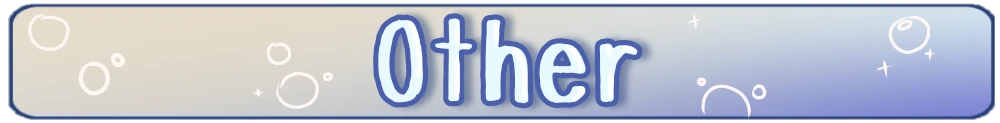
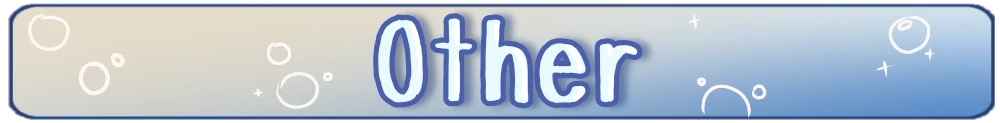
new status and updated website colors

Changed region(s): [[0.496, 0.5122, 0.992, 0.9512], [0.868, 0.5122, 0.899, 0.5366]]

diff --git a/src/styles/global.css b/src/styles/global.css
@@ -1,7 +1,3 @@
-/* ============================================
-   gemmie's corner — designs
-   ============================================ */
-
 @import url('https://fonts.googleapis.com/css2?family=Baloo+2:wght@600;700&family=Pacifico&display=swap');
 
 :root {
@@ -9,26 +5,26 @@
   --glass-fill: rgba(255, 250, 245, 0.6);
   --glass-fill-strong: rgba(255, 250, 245, 0.84);
   --glass-border: rgba(255, 255, 255, 0.85);
-  --titlebar-start: #dee3fb;
-  --titlebar-mid: #93a3e6;
-  --titlebar-end: #4b3a7a;
-  --titlebar-border: #332a56;
-  --titlebar-inactive-start: #ebe5f4;
-  --titlebar-inactive-mid: #cfc2e2;
-  --titlebar-inactive-end: #a996c4;
-  --titlebar-inactive-border: #8d7ba3;
-  --titlebar-inactive-text: #4a3f66;
+  --titlebar-start: #d7e6f5;
+  --titlebar-mid: #4a85c9;
+  --titlebar-end: #1a3f66;
+  --titlebar-border: #11263f;
+  --titlebar-inactive-start: #e4ebf2;
+  --titlebar-inactive-mid: #b7c9da;
+  --titlebar-inactive-end: #7891ab;
+  --titlebar-inactive-border: #5a7290;
+  --titlebar-inactive-text: #2a3f55;
   --tb-btn-start: #fdfefe;
-  --tb-btn-end: #d6cdea;
+  --tb-btn-end: #cfe6e9;
 
   /* text */
-  --ink: #2b2140;
-  --ink-soft: #5c4f7a;
+  --ink: #142c3f;
+  --ink-soft: #3c5a70;
   --ink-inverse: #fbf3ea;
 
   /* accents */
-  --accent: #6a7fd9;
-  --accent-deep: #4b3a7a;
+  --accent: #3a7ab8;
+  --accent-deep: #1a3f66;
   --accent-teal: #3fbfc7;
   --accent-orange: #e8823a;
   --accent-red: #e3543f;
@@ -37,10 +33,10 @@
   --surface-faint: rgba(255, 255, 255, 0.38);
   --surface: rgba(255, 255, 255, 0.55);
   --surface-hover: rgba(255, 255, 255, 0.9);
-  --card-border: rgba(75, 58, 122, 0.32);
-  --card-border-dashed: rgba(75, 58, 122, 0.4);
-  --card-stripe: rgba(75, 58, 122, 0.15);
-  --card-stripe-bg: rgba(75, 58, 122, 0.06);
+  --card-border: rgba(26, 63, 102, 0.32);
+  --card-border-dashed: rgba(26, 63, 102, 0.4);
+  --card-stripe: rgba(26, 63, 102, 0.15);
+  --card-stripe-bg: rgba(26, 63, 102, 0.06);
 
   /* type */
   --font-ui: 'Segoe UI', Tahoma, Geneva, Verdana, sans-serif;
@@ -56,37 +52,37 @@
 
 /* ---------- dark theme token overrides ---------- */
 :root[data-theme="dark"] {
-  --glass-fill: rgba(20, 15, 34, 0.55);
-  --glass-fill-strong: rgba(20, 15, 34, 0.78);
+  --glass-fill: rgba(14, 17, 46, 0.55);
+  --glass-fill-strong: rgba(14, 17, 46, 0.78);
   --glass-border: rgba(255, 255, 255, 0.14);
-  --titlebar-start: #6a5aa8;
-  --titlebar-mid: #392f5c;
-  --titlebar-end: #15111f;
-  --titlebar-border: #08060f;
-  --titlebar-inactive-start: #33294a;
-  --titlebar-inactive-mid: #241c38;
-  --titlebar-inactive-end: #171226;
-  --titlebar-inactive-border: #0d0a16;
-  --titlebar-inactive-text: #cabfe0;
-  --tb-btn-start: #4a4260;
-  --tb-btn-end: #2a2440;
+  --titlebar-start: #2a5f99;
+  --titlebar-mid: #16304f;
+  --titlebar-end: #0d1030;
+  --titlebar-border: #070816;
+  --titlebar-inactive-start: #1a2f44;
+  --titlebar-inactive-mid: #15222f;
+  --titlebar-inactive-end: #10122c;
+  --titlebar-inactive-border: #0a0b1d;
+  --titlebar-inactive-text: #a3bdd6;
+  --tb-btn-start: #27405a;
+  --tb-btn-end: #171538;
 
-  --ink: #f3ecff;
-  --ink-soft: #cabfe0;
+  --ink: #e9f1fb;
+  --ink-soft: #9ab6d6;
   --ink-inverse: #fbf3ea;
 
-  --accent: #93a3e6;
-  --accent-deep: #b9c3f0;
+  --accent: #4f9fd9;
+  --accent-deep: #7fb8ef;
   --accent-teal: #5fe0e6;
   --accent-orange: #ffab5c;
 
-  --surface-faint: rgba(20, 15, 34, 0.35);
-  --surface: rgba(30, 22, 48, 0.55);
-  --surface-hover: rgba(70, 56, 100, 0.75);
-  --card-border: rgba(185, 195, 240, 0.28);
-  --card-border-dashed: rgba(185, 195, 240, 0.35);
-  --card-stripe: rgba(185, 195, 240, 0.18);
-  --card-stripe-bg: rgba(185, 195, 240, 0.08);
+  --surface-faint: rgba(14, 17, 46, 0.35);
+  --surface: rgba(18, 21, 54, 0.55);
+  --surface-hover: rgba(36, 42, 98, 0.75);
+  --card-border: rgba(127, 184, 239, 0.28);
+  --card-border-dashed: rgba(127, 184, 239, 0.35);
+  --card-stripe: rgba(127, 184, 239, 0.18);
+  --card-stripe-bg: rgba(127, 184, 239, 0.08);
 }
 
 * {
@@ -102,7 +98,7 @@ body {
   font-family: var(--font-ui);
   color: var(--ink);
   min-height: 100vh;
-  background-color: #dfe3fb;
+  background-color: #dce8f2;
   font-size: 15px;
   line-height: 1.55;
   position: relative;
@@ -111,7 +107,7 @@ body {
 }
 
 :root[data-theme="dark"] body {
-  background-color: #0d0a16;
+  background-color: #0a0d28;
 }
 
 @media (prefers-reduced-motion: reduce) {
@@ -247,9 +243,7 @@ button:focus-visible {
   margin: 0 1px;
 }
 
-/* ============================================
-   page shell, my 3-column desktop layout shared for every page
-   ============================================ */
+/* ---------- page shell ------------ */
 
 .layout-grid {
   display: grid;
@@ -297,7 +291,6 @@ button:focus-visible {
 }
 .nav-mascot.in-nav {
   display: block;
-  /* cancels .col-nav's own 8px flex gap so the sprite touches topics.exe */
   margin-bottom: -8px;
 }
 .nav-mascot.in-shell {
@@ -421,7 +414,7 @@ button:focus-visible {
   display: flex;
   align-items: center;
   justify-content: center;
-  background: linear-gradient(180deg, #eafcff 0%, #9fe0ea 30%, #93a3e6 65%, #4b3a7a 100%);
+  background: linear-gradient(180deg, #eafcff 0%, #9fe0ea 30%, #3f7fc9 65%, #1a3f66 100%);
   border: 1px solid rgba(255,255,255,0.75);
   box-shadow: 0 6px 14px rgba(30,25,60,0.3), inset 0 2px 4px rgba(255,255,255,0.6);
 }
@@ -594,11 +587,16 @@ h1 {
   font-size: 2.8rem;
   line-height: 1;
   margin: 0 0 10px;
-  background: linear-gradient(180deg, #ffb3d1 0%, #ff6fa5 45%, #e14f86 100%);
+  background: linear-gradient(180deg, #8df0f4 0%, #6a6fe0 45%, #2f2a78 100%);
   -webkit-background-clip: text;
   background-clip: text;
   color: transparent;
   filter: drop-shadow(0 2px 2px rgba(26,18,46,0.25));
+}
+:root[data-theme="dark"] h1 {
+  background: linear-gradient(180deg, #a8f5f8 0%, #8f8ff0 45%, #4b3fb0 100%);
+  -webkit-background-clip: text;
+  background-clip: text;
 }
 
 .profile-grid {
@@ -1317,13 +1315,13 @@ h1 {
   padding: 8px 14px;
   border-radius: 6px;
   border: 1px solid var(--accent-deep);
-  background: linear-gradient(180deg, #ffffff 0%, #e6ddf7 45%, #ab98e6 46%, #cdb8f0 100%);
+  background: linear-gradient(180deg, #ffffff 0%, #d9f3f0 45%, #4fb9c2 46%, #8fe0e6 100%);
   color: var(--ink);
   cursor: pointer;
   transition: transform 0.12s ease;
 }
 :root[data-theme="dark"] .music-play-btn {
-  background: linear-gradient(180deg, #6a5aa8 0%, #4a3d7a 45%, #332a5c 46%, #241d44 100%);
+  background: linear-gradient(180deg, #2f99a8 0%, #1f6f78 45%, #164d54 46%, #0d2e32 100%);
 }
 .music-play-btn:hover {
   transform: translateY(-1px);
@@ -1517,13 +1515,13 @@ h1 {
   padding: 9px 16px;
   border-radius: 6px;
   border: 1px solid var(--accent-deep);
-  background: linear-gradient(180deg, #ffffff 0%, #e6ddf7 45%, #ab98e6 46%, #cdb8f0 100%);
+  background: linear-gradient(180deg, #ffffff 0%, #d9f3f0 45%, #4fb9c2 46%, #8fe0e6 100%);
   color: var(--ink);
   text-decoration: none;
   transition: transform 0.12s ease;
 }
 :root[data-theme="dark"] .shop-kofi-btn {
-  background: linear-gradient(180deg, #6a5aa8 0%, #4a3d7a 45%, #332a5c 46%, #241d44 100%);
+  background: linear-gradient(180deg, #2f99a8 0%, #1f6f78 45%, #164d54 46%, #0d2e32 100%);
 }
 .shop-kofi-btn:hover {
   transform: translateY(-1px);
@@ -2148,7 +2146,7 @@ h1 {
   transform: translateY(-50%);
   font-size: 1.3rem;
   font-weight: 700;
-  color: #241a3d;
+  color: #0f2236;
   text-shadow: 0 1px 2px rgba(255, 255, 255, 0.55);
   transition: transform 0.2s ease;
 }
@@ -2458,13 +2456,13 @@ h1 {
   padding: 6px 10px;
   border-radius: 6px;
   border: 1px solid var(--accent-deep);
-  background: linear-gradient(180deg, #ffffff 0%, #e6ddf7 45%, #ab98e6 46%, #cdb8f0 100%);
+  background: linear-gradient(180deg, #ffffff 0%, #d9f3f0 45%, #4fb9c2 46%, #8fe0e6 100%);
   color: var(--ink);
   cursor: pointer;
   transition: transform 0.12s ease;
 }
 :root[data-theme="dark"] .embed-copy-btn {
-  background: linear-gradient(180deg, #6a5aa8 0%, #4a3d7a 45%, #332a5c 46%, #241d44 100%);
+  background: linear-gradient(180deg, #2f99a8 0%, #1f6f78 45%, #164d54 46%, #0d2e32 100%);
   color: var(--ink);
 }
 .embed-copy-btn:hover {

diff --git a/public/chattable-kick.css b/public/chattable-kick.css
@@ -1,14 +1,12 @@
-/* gemmiewow.com Aero glass palette (hardcoded — this file loads standalone
-   into Chattable's own page, which has no access to our site's CSS vars) */
 :root {
-  --body-fg-color: #2b2140;
-  --body-bg-color: #f6f3fb;
-  --sent-message-bubble-bg-color: #ab98e6;
-  --sent-message-bubble-fg-color: #2b2140;
-  --sent-message-bubble-border-color: #8a72c9;
-  --recieved-message-bubble-bg-color: #f1ecfb;
-  --recieved-message-bubble-fg-color: #2b2140;
-  --recieved-message-bubble-border-color: #c9bfe3;
+  --body-fg-color: #142c3f;
+  --body-bg-color: #eef4fb;
+  --sent-message-bubble-bg-color: #6fa8e0;
+  --sent-message-bubble-fg-color: #142c3f;
+  --sent-message-bubble-border-color: #3f7fc9;
+  --recieved-message-bubble-bg-color: #e4edf7;
+  --recieved-message-bubble-fg-color: #142c3f;
+  --recieved-message-bubble-border-color: #b7c9da;
 }
 body {
   color: var(--body-fg-color);
@@ -29,7 +27,7 @@ body {
  max-width: calc(95% - 75px);
  padding: 10px;
  position: relative;
- border: solid 1px rgba(75, 58, 122, 0.35);
+ border: solid 1px rgba(26, 63, 102, 0.35);
  filter: drop-shadow(0 2px 3px rgba(26, 18, 46, 0.25));
 }
 .msgWrapper + .msgWrapper {
@@ -68,7 +66,7 @@ body {
   align-items: center;
   justify-content: center;
   font-size: 10pt;
-  color: #8c7fae;
+  color: #5a7290;
   width: 100%;
   margin: 5px;
 }
@@ -108,8 +106,8 @@ body {
   margin: 2px;
   margin-left: 15px;
   border-radius: 50%;
-  outline: solid 1px rgba(75, 58, 122, 0.4);
-  box-shadow: 0 -3px 5px rgba(43, 33, 64, 0.4) inset, 0 7px 10px #FFF inset, 0 3px 5px rgba(43, 33, 64, 0.5);
+  outline: solid 1px rgba(26, 63, 102, 0.4);
+  box-shadow: 0 -3px 5px rgba(16, 28, 46, 0.4) inset, 0 7px 10px #FFF inset, 0 3px 5px rgba(16, 28, 46, 0.5);
 }
 .msgWrapper:has(.allMessages[uid^='0']):before { background-color: #FF5733; } 
 .msgWrapper:has(.allMessages[uid^='1']):before { background-color: #FFC107; } 
@@ -212,7 +210,7 @@ blockquote {
 }
 #background {
  background-color: var(--body-bg-color);
- scrollbar-color: #8a72c9 transparent;
+ scrollbar-color: #3f7fc9 transparent;
  scrollbar-width: thin;
 }
 #textInput {
@@ -220,17 +218,17 @@ blockquote {
   background: var(--body-bg-color) !important;
 }
 #input, #nameEntry {
- color: #2b2140;
+ color: #142c3f;
  background: rgba(255, 255, 255, 0.9);
  border: none;
  outline: none;
- border: solid 1px rgba(75, 58, 122, 0.35);
+ border: solid 1px rgba(26, 63, 102, 0.35);
  box-sizing: border-box;
  border-radius: 6px;
 }
 #input:empty::before {
  content: "Type a message...";
- color: #8c7fae;
+ color: #5a7290;
 }
 .badge {
   display: none;
@@ -254,7 +252,7 @@ blockquote {
     display: none;
     overflow: visible;
     font-size: 8pt;
-    color: #2b2140;
+    color: #142c3f;
 }
 .senderInfo:before {
   content: "from";
@@ -289,7 +287,7 @@ blockquote {
   height: 2px;
   width: 100%;
   margin: auto;
-  background-color: rgba(75, 58, 122, 0.3);
+  background-color: rgba(26, 63, 102, 0.3);
   border: none;
 }
 #is_typing {
@@ -308,7 +306,7 @@ blockquote {
     all: unset !important;
 }
 .pinned > .allMessages {
-    box-shadow: 0 0 3px rgba(43, 33, 64, 0.35);
+    box-shadow: 0 0 3px rgba(16, 28, 46, 0.35);
     width: 100%;
     transition: opacity 250ms ease;
 }

diff --git a/src/data/snippets/theme-toggle/style.css b/src/data/snippets/theme-toggle/style.css
@@ -1,10 +1,10 @@
 :root {
   --bg: #fdf6f0;
-  --fg: #2b2140;
+  --fg: #142c3f;
 }
 :root[data-theme="dark"] {
-  --bg: #14101f;
-  --fg: #f3ecff;
+  --bg: #0a1522;
+  --fg: #e9f1fb;
 }
 
 body {
